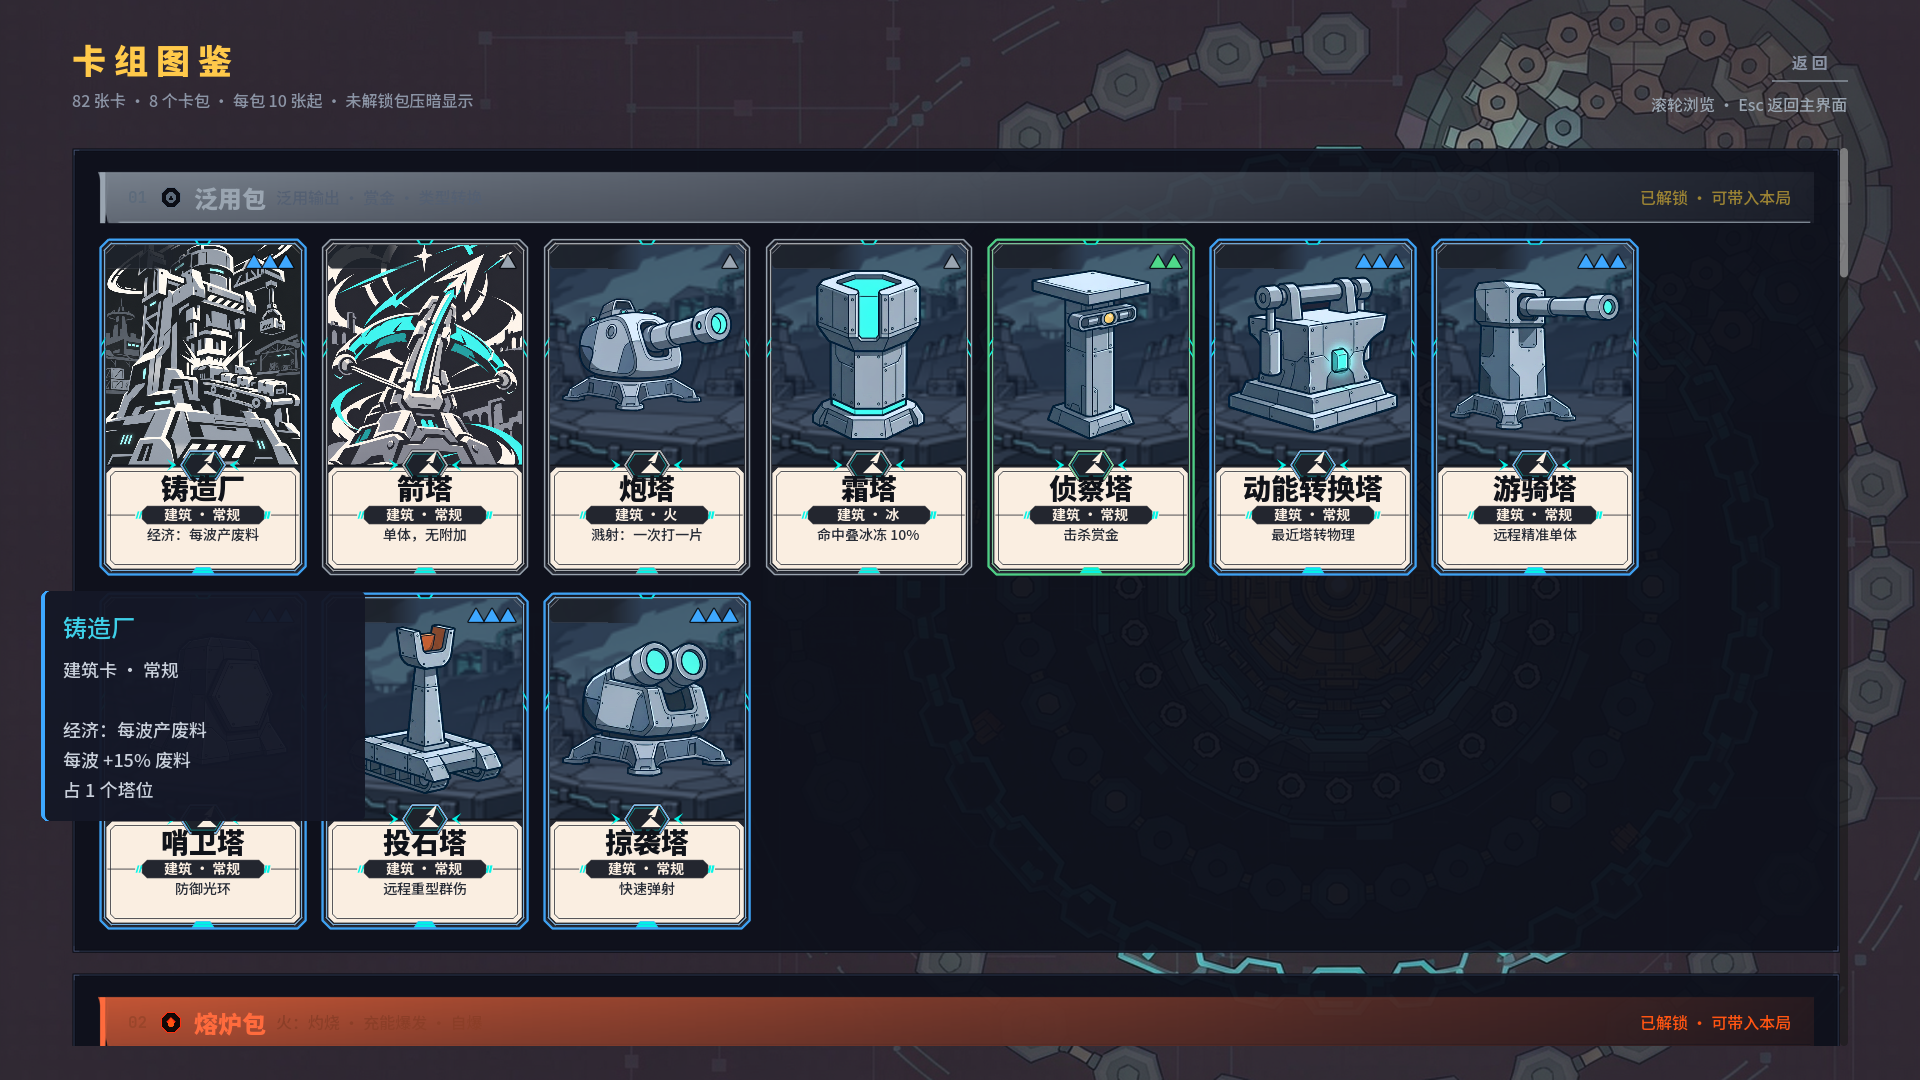
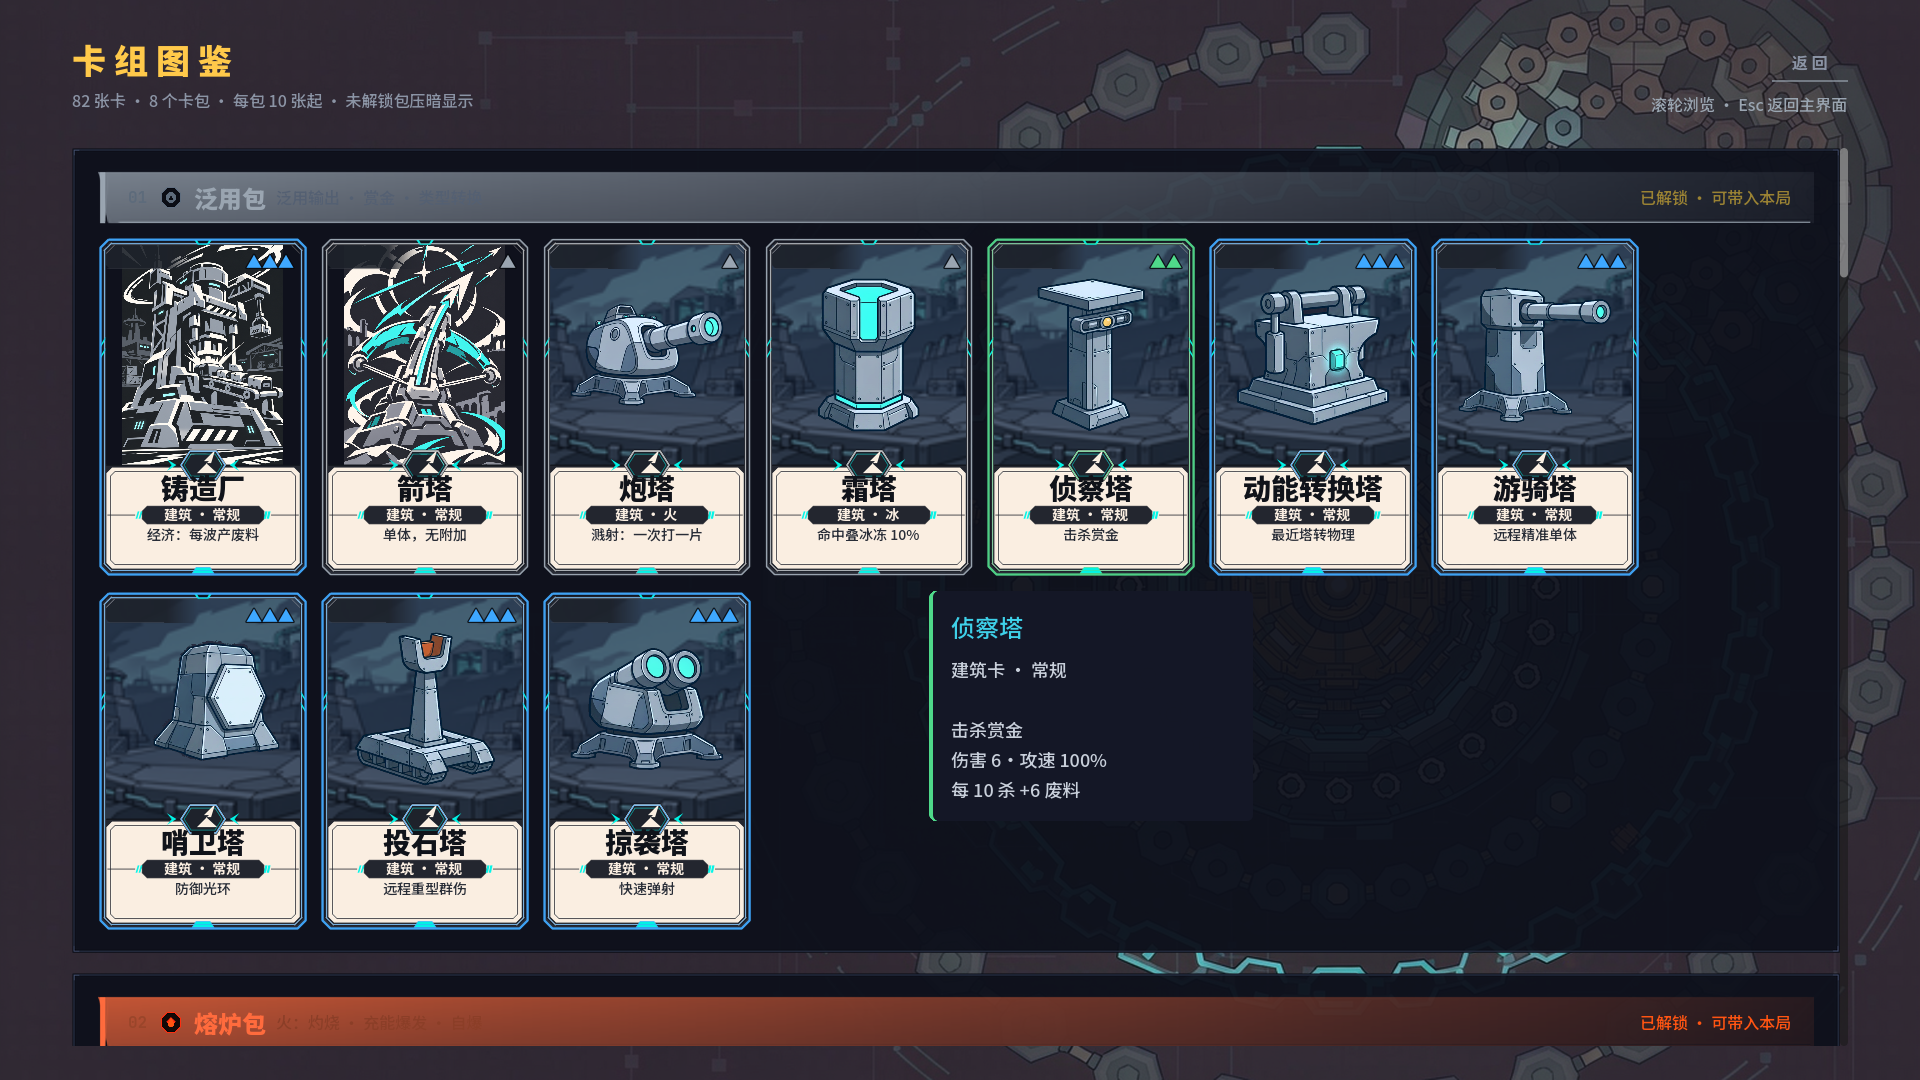
feat(ui): 缩小卡牌插画比例（全幅 CONTAIN×1.10 / 塔插画内缩 10px）
- 全幅竖版插画：`COVER` → `CONTAIN × FULL_ART_ZOOM(1.10)`——比铺满小一圈，
  又刚好盖掉插画自带的卡框，避免「卡里套卡」；溢出由卡窗裁切。
- 方形塔插画：卡窗内各边再让出 `ART_INSET(10px)`，塔身不再顶满边框。
- `card_face.gd`（图鉴）与 `shop_overlay.gd`（商店）同步，两处常量同值。
- 验证：`card_spec` **25 项 0 失败**、`shop_overlay` exit 0；`cards-spec-a/b` 与两张
  悬停截图重出，`art/_review/card-hover-{shop,gallery}.png` 同步更新。
- 未改布局、信息层级与玩法。

diff --git a/AGENTS.md b/AGENTS.md
@@ -42,7 +42,7 @@ GODOT="C:/Program Files (x86)/Steam/steamapps/common/Godot Engine/godot.windows.
 
 ## 当前状态（2026-11-10，详见 handoff-2026-11-10-gameplay.md）
 
-- 卡面 v3.2（210×340 卡槽 / 插画 ≈70% / 信息区 ≈30% / 卡名 28 · 类型与摘要 14 / 锁左上 · 费用右上）+ 主菜单「怪物图鉴」+ 移除 `1/2/3` 快捷购买（购买只走点击整卡，焦点位随鼠标悬停）：见 `docs/phase6/handoff-2026-11-11-card-spec.md`、`monster-library.md`。默认全量回归 exit 0，`card_spec` 专项（20 项）已进默认回归。**卡组图鉴同步改用同一套竖版卡面**（`scripts/ui/card_face.gd`，7 列网格）。**牌面已精简为「插画 + 卡名 + 类型条 + 一行基础信息」**（如「远程单体」，商店另含价格/锁头），完整机制与数值改由**悬停浮卡**展示（`card_hover.gd` 深色实心面板，商店 0.4s / 图鉴 0.35s 触发）。⚠ 卡面 14px 是 §9.1「玩家可见文本 ≥16px」的唯一例外，**待拍板**。
+- 卡面 v3.2（210×340 卡槽 / 插画 ≈70% / 信息区 ≈30% / 卡名 28 · 类型与摘要 14 / 锁左上 · 费用右上）+ 主菜单「怪物图鉴」+ 移除 `1/2/3` 快捷购买（购买只走点击整卡，焦点位随鼠标悬停）：见 `docs/phase6/handoff-2026-11-11-card-spec.md`、`monster-library.md`。默认全量回归 exit 0，`card_spec` 专项（20 项）已进默认回归。**卡组图鉴同步改用同一套竖版卡面**（`scripts/ui/card_face.gd`，7 列网格）。**牌面已精简为「插画 + 卡名 + 类型条 + 一行基础信息」**（如「远程单体」，商店另含价格/锁头），完整机制与数值改由**悬停浮卡**展示（`card_hover.gd` 深色实心面板，商店 0.4s / 图鉴 0.35s 触发）。**插画已缩比**：全幅插画 `CONTAIN × 1.10`、塔插画内缩 `ART_INSET=10px`。⚠ 卡面 14px 是 §9.1「玩家可见文本 ≥16px」的唯一例外，**待拍板**。
 
 - 基地美术 / 十九格禁建区、准备阶段下一波出怪预告、商店背景铺满卡框：见 `docs/phase6/base-and-card-art-2026-11-10.md` 与 `spawn-preview.md`。出怪预告专项已加入默认 world 门禁；其他会话的界面与火焰数值改动继续单独保留。
 

diff --git a/docs/phase6/handoff-2026-11-11-card-spec.md b/docs/phase6/handoff-2026-11-11-card-spec.md
@@ -132,3 +132,7 @@
   `run_ui_style_asserts` 148/0、`shop_overlay`、`shop_interaction` 均 exit 0。
 - 截图：`art/_review/card-hover-shop.png`、`art/_review/card-hover-gallery.png`
   （出图工具 `tools/shoot_card_spec.gd`，悬停用「指针钉在卡片上」模拟）。
+- **插画缩比**（用户：比例太大）：全幅竖版插画由 `COVER` 改 `CONTAIN × 1.10`
+  （`FULL_ART_ZOOM`，比铺满小一圈，又刚好盖掉插画自带的卡框，避免卡里套卡）；
+  方形塔插画在卡窗内再各边让出 `ART_INSET = 10px`。两处都在 `card_face.gd` 与
+  `shop_overlay.gd` 同步，`card_spec` 25/0、`shop_overlay` exit 0。
